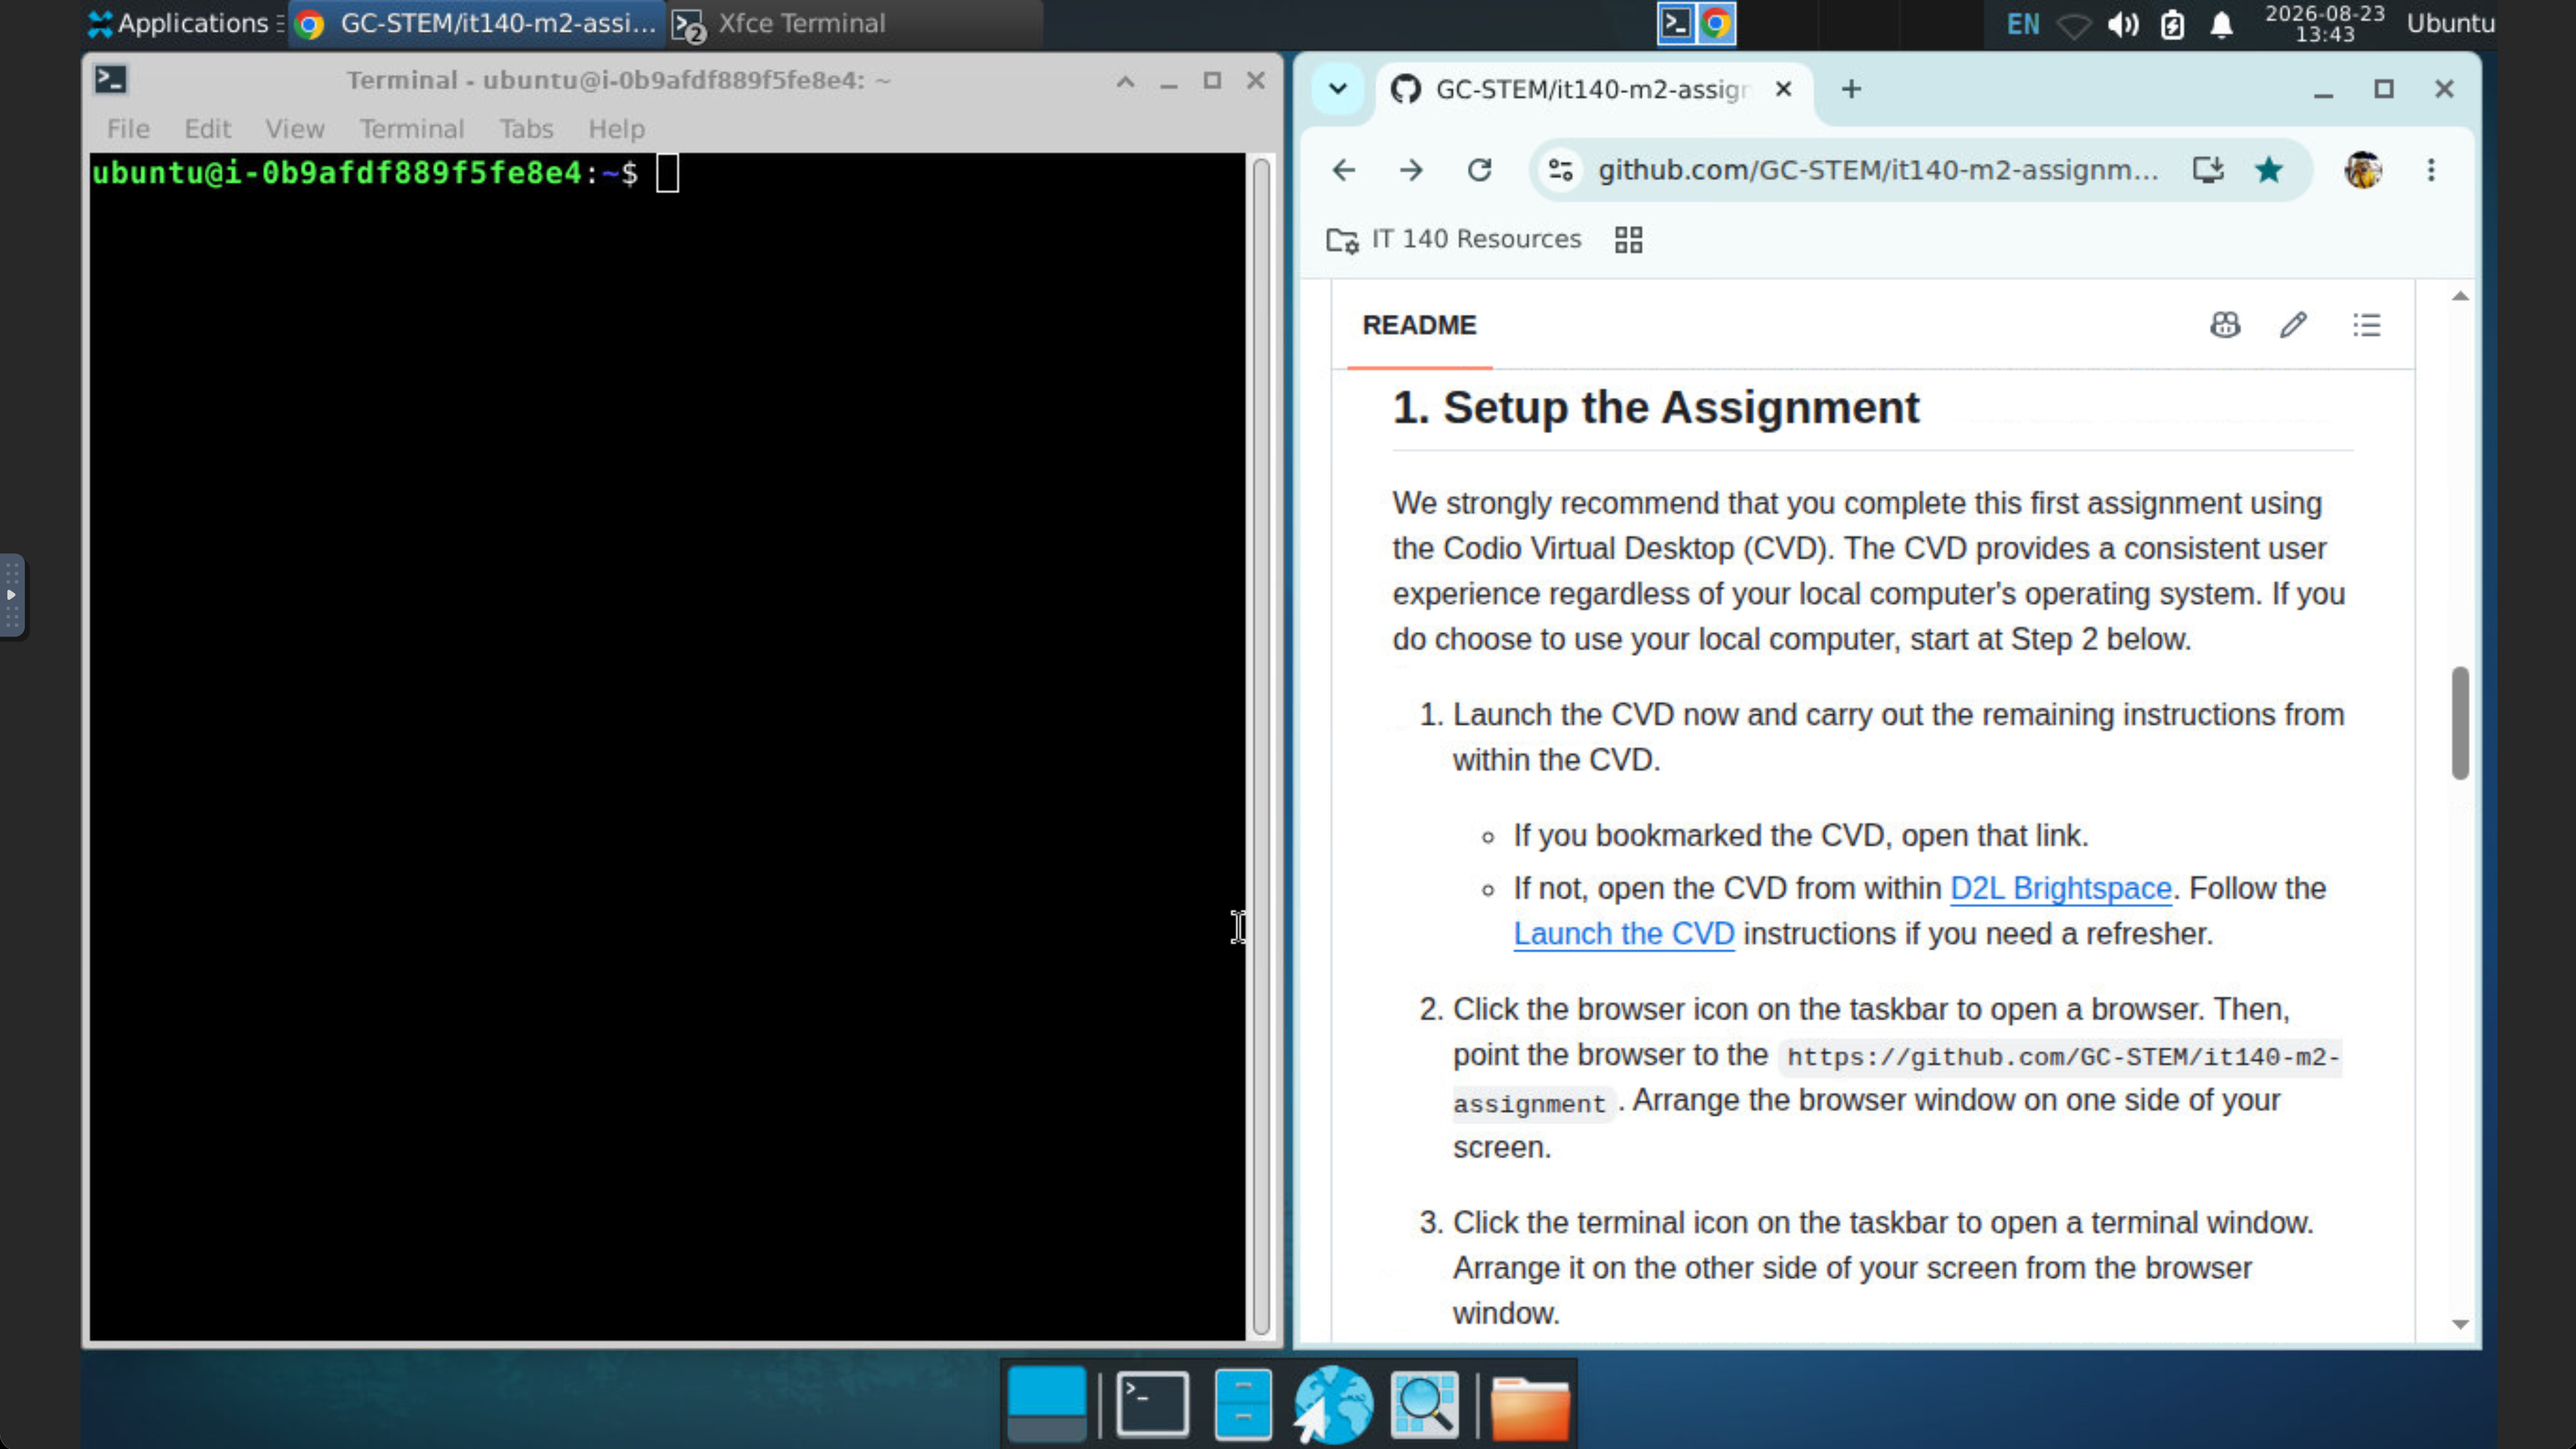
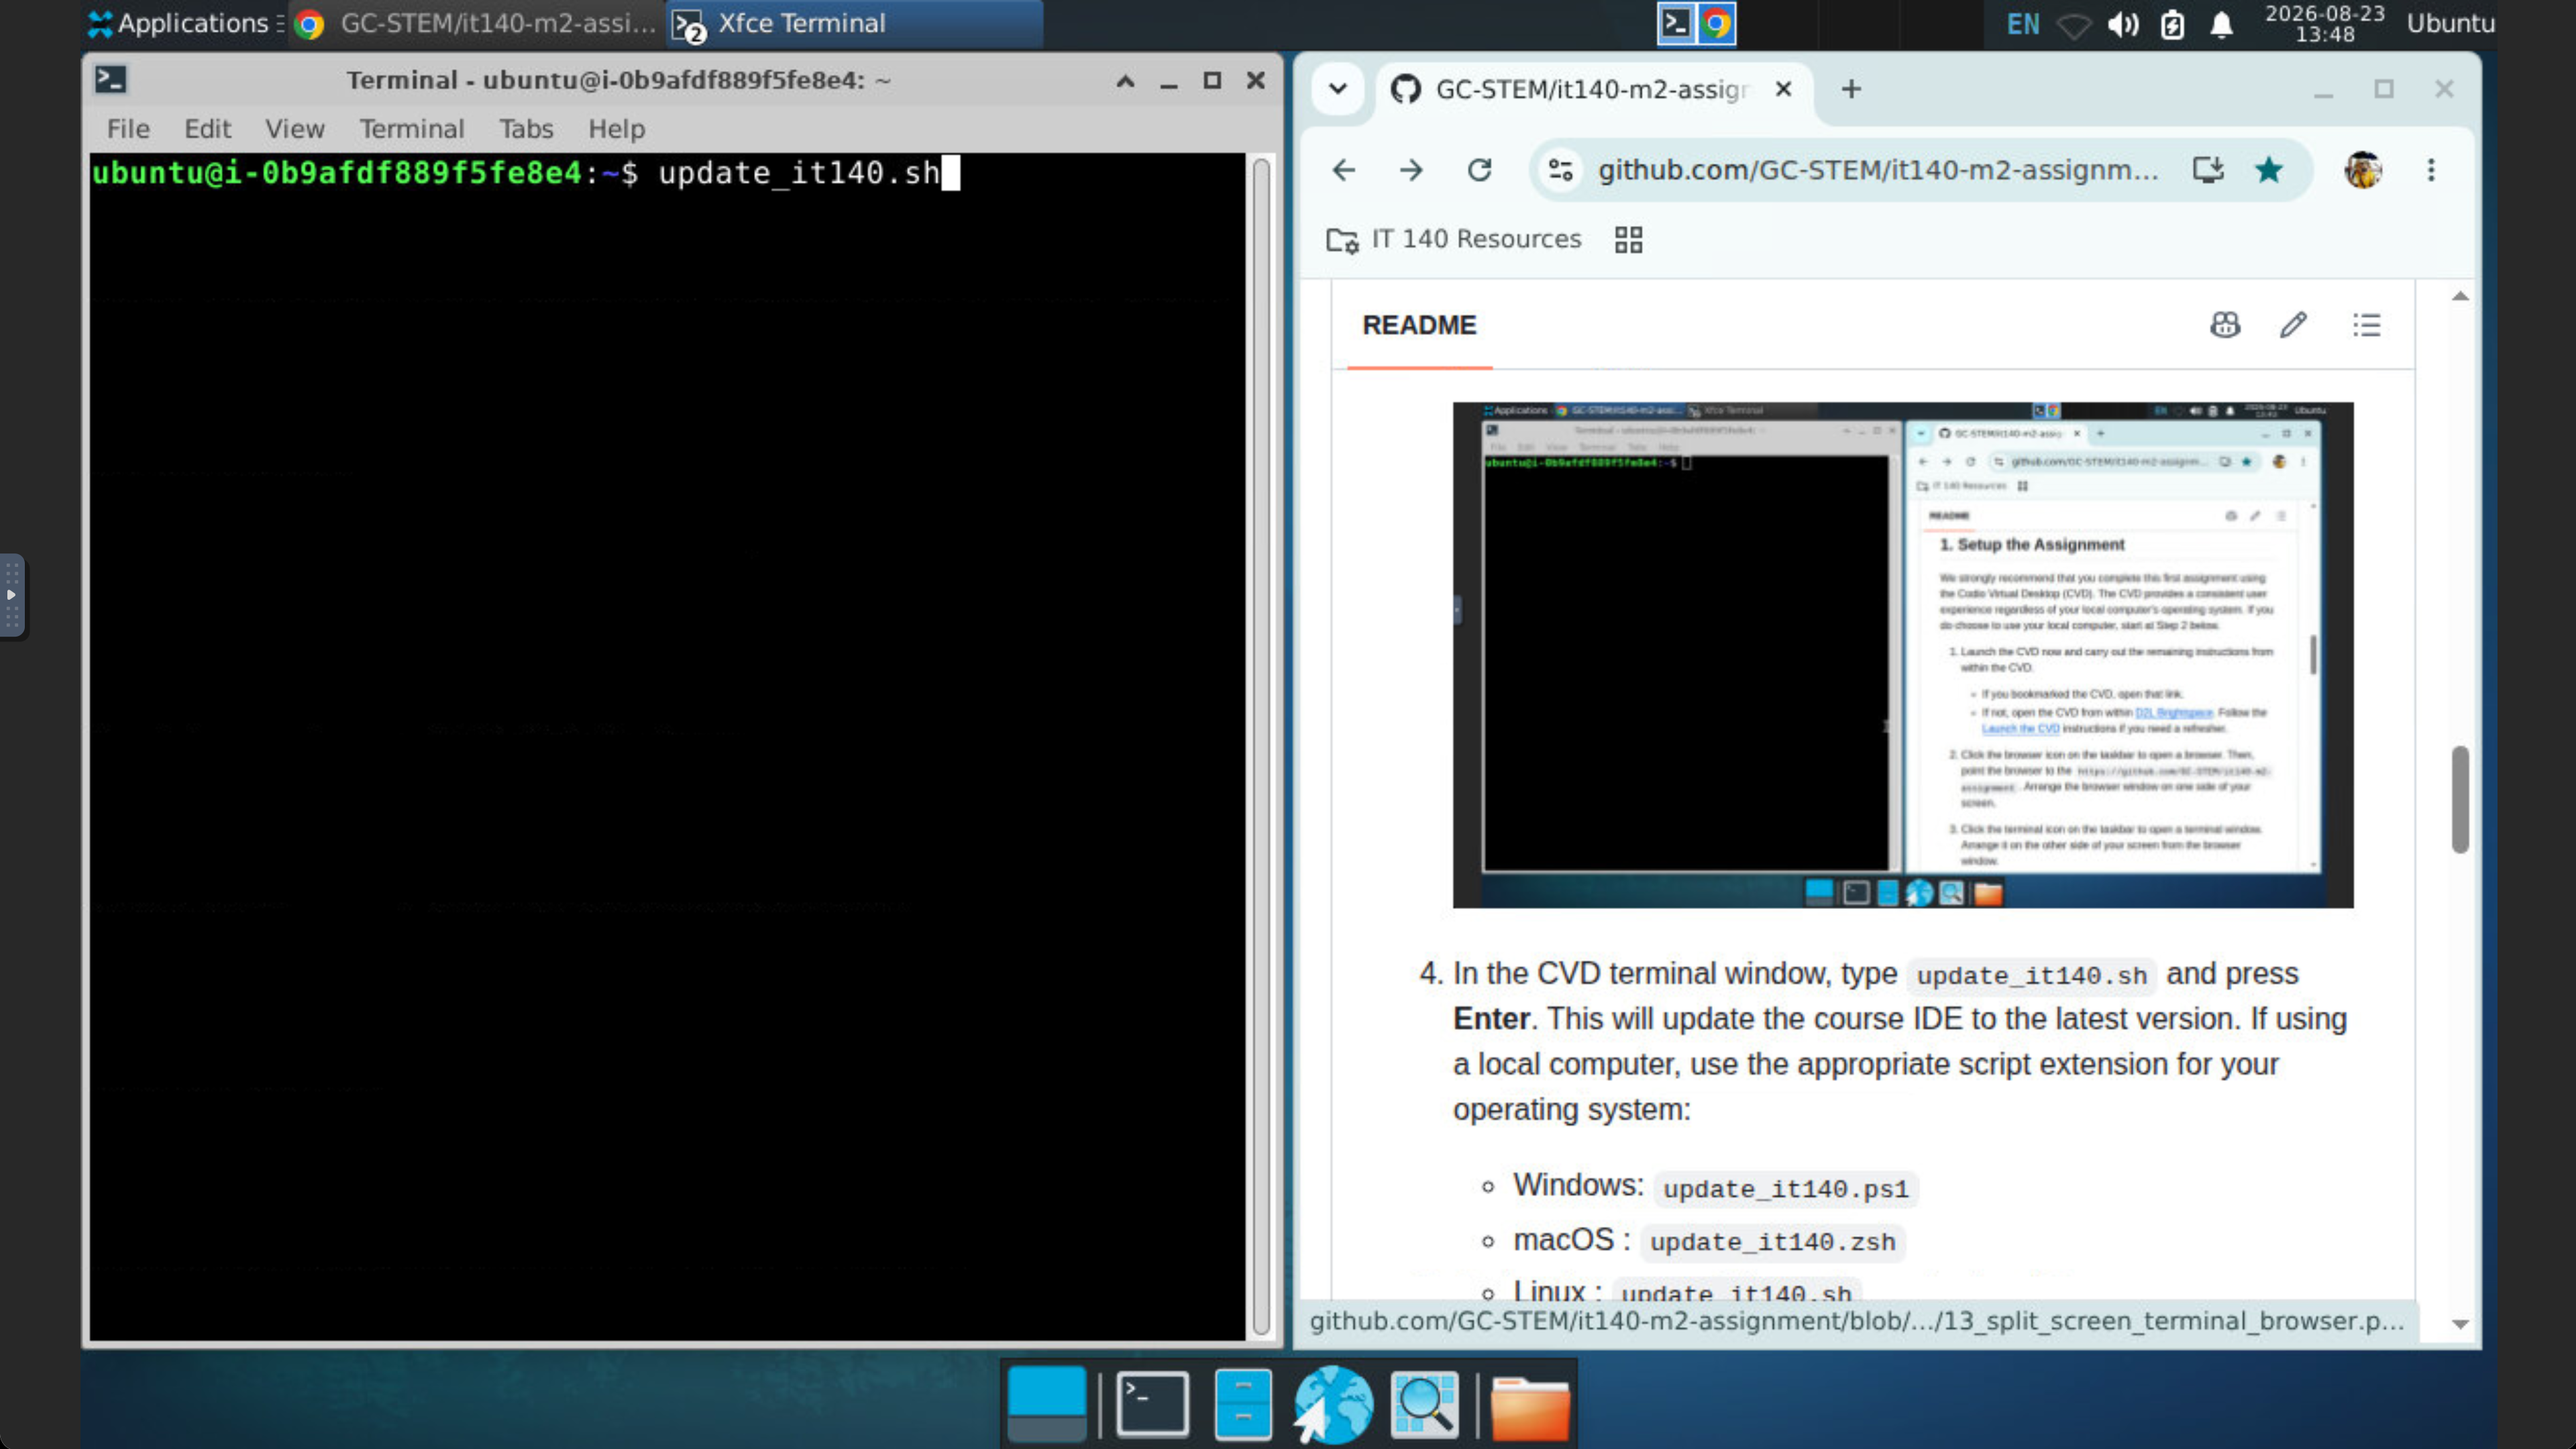
Add split screen images for terminal and update summary in README

diff --git a/README.md b/README.md
@@ -41,13 +41,14 @@ We strongly recommend that you complete this first assignment using the Codio Vi
 
    ![Terminal and browser window in split screen](./.github/assets/13_split_screen_terminal_browser.png)
 
-4. In the CVD terminal window, type `update_it140.sh` and press **Enter**. This will update the course IDE to the latest version. Be patient. It may take a few miunutes to complete. If using a local computer, use the appropriate script extension for your operating system:
+4. In the CVD terminal window, type `update_it140.sh` and press **Enter**. This will update the course IDE to the latest version. Be patient. It may take a few minutes to complete. If using a local computer, use the appropriate script extension for your operating system:
    - Windows: `update_it140.ps1`
    - macOS  : `update_it140.zsh`
    - Linux  : `update_it140.sh`
 
-5. Review the output of the update script. Look for:
-   1. If you see any errors, please contact your instructor for assistance.
+5. Review the output of the update script. You are mainly interested in `Failures: 0` and the `Restart required:` message. If `Failures` is greater than `0`, review the [**Get Help and Support**](#5-get-help-and-support) section for assistance.
+
+  ![Update summary in split screen](./.github/assets/15_split_screen_update_summary.png)
 
 6. Copy the following command block and paste it into a new terminal window. Press **Enter** to run.
 
